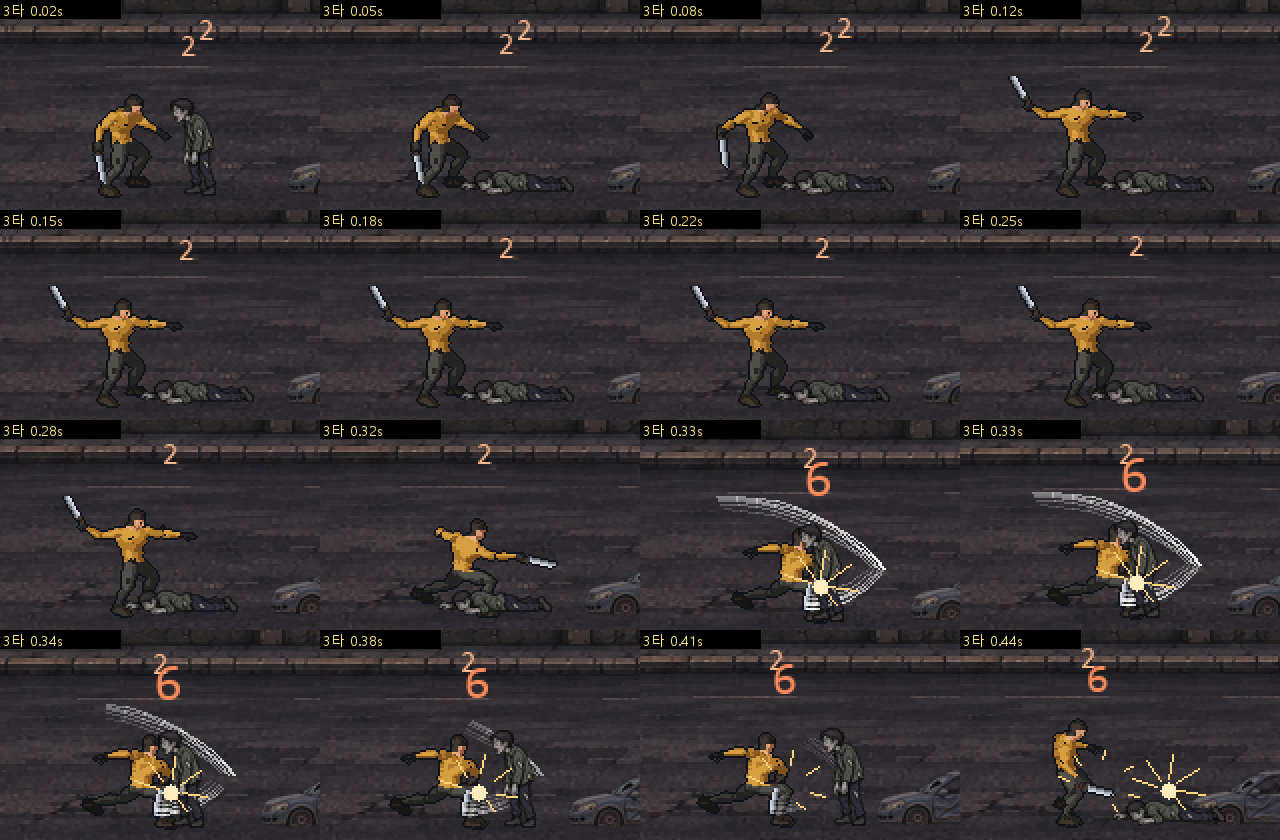
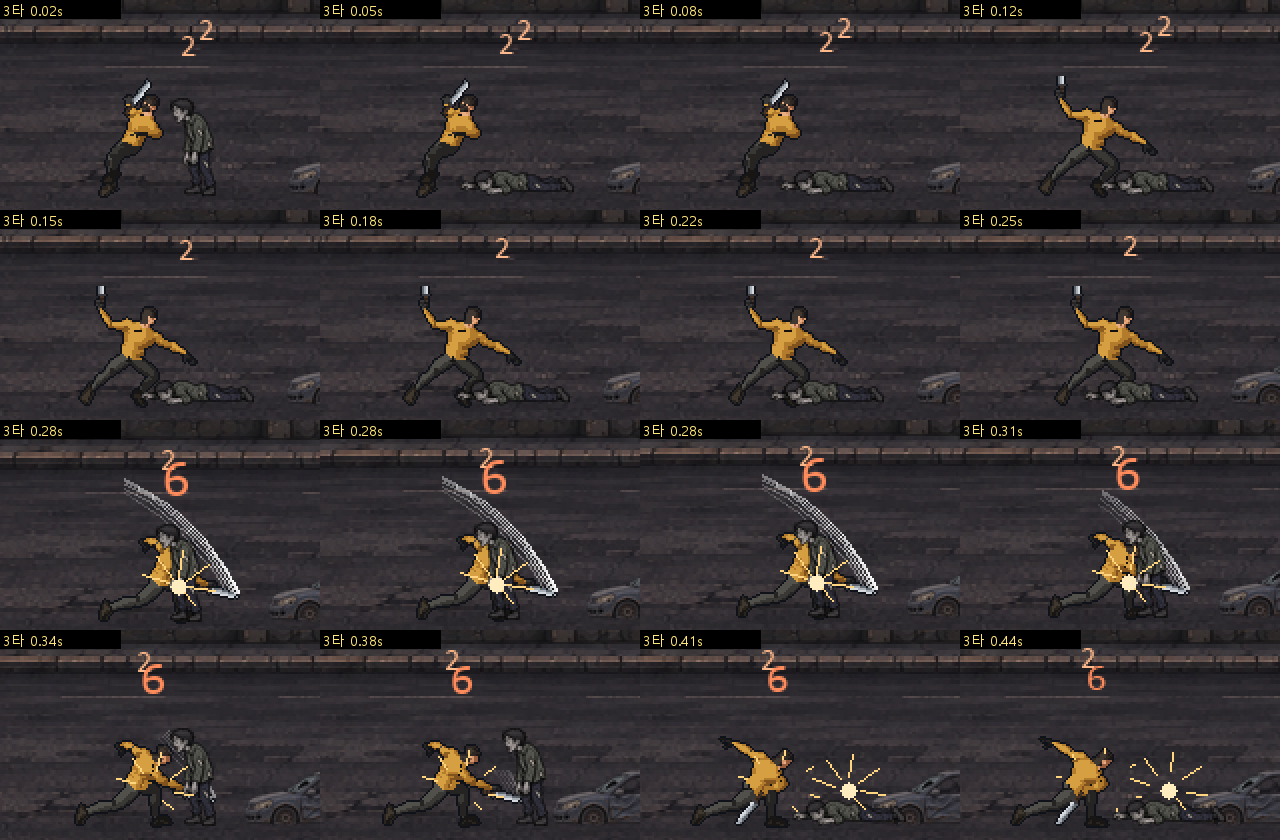
3타를 동작 팩 3연타(Sword_Regular_Combo)의 마무리로: 2타에서 이어지는 머리 위 내려치기

diff --git a/tools/blender/render_character.py b/tools/blender/render_character.py
@@ -27,17 +27,18 @@ PASSES = [
     (LIB1,
      ["idle=Idle_Loop", "sneak_idle=Idle_Loop+Crouch_Idle_Loop*0.3", "walk=Walk_Loop",
       "sneak=Walk_Loop+Crouch_Idle_Loop*0.3", "run=Jog_Fwd_Loop", "hurt=Hit_Chest", "down=Death01",
-      "pickup=Fixing_Kneeling@0-20", "swing3=Sword_Attack@0-7,Sword_Attack@10-13,Sword_Attack@26-36"],
-     ["idle=4", "sneak_idle=4", "walk=12", "sneak=12", "run=12", "hurt=3", "down=5", "pickup=4", "swing3=3,2,3"],
+      "pickup=Fixing_Kneeling@0-20"],
+     ["idle=4", "sneak_idle=4", "walk=12", "sneak=12", "run=12", "hurt=3", "down=5", "pickup=4"],
      ["--shift-for", "down=16"]),
     (LIB2,
      # Machete combo (user order 2026-11-12, "1st sweep, 2nd rising cut, 3rd chop down"):
      # 1st a quick sweep (B, wind-up cut off), 2nd the rising cut (A from its crouch on,
-     # fewer frames), 3rd the big chop (Sword_Attack: blade raised overhead, lunge, chop down
-     # to the ground, then its own return to standing).
-     # (swing3 is in the first library, so it is rendered with the first pass above.)
-     ["swing=Sword_Regular_B@2-13,Sword_Regular_B_Rec", "swing2=Sword_Regular_A@4-,Sword_Regular_A_Rec@7-23"],
-     ["swing=4,3", "swing2=4,3"],
+     # fewer frames), 3rd the finisher of the pack's own combo (Sword_Regular_Combo: after
+     # A and B it raises the blade overhead and steps in with a diagonal chop), so all three
+     # come from one animated combo and flow together (2026-11-13: Sword_Attack did not).
+     ["swing=Sword_Regular_B@2-13,Sword_Regular_B_Rec", "swing2=Sword_Regular_A@4-,Sword_Regular_A_Rec@7-23",
+      "swing3=Sword_Regular_Combo@31.5-34.5,Sword_Regular_Combo@37.6-41,Sword_Regular_Combo@51-72"],
+     ["swing=4,3", "swing2=4,3", "swing3=2,2,3"],
      []),
 ]
 

diff --git a/src/weapon.py b/src/weapon.py
@@ -31,7 +31,7 @@ MACHETE = Weapon(
         # 1st and 2nd: quick, light blows; 3rd: the big chop with a real wind-up.
         Swing("swing", 0.46, 0.14, 2, 42, 20, pi / 3, 110, 0.72, False),    # quick sweep
         Swing("swing2", 0.50, 0.16, 2, 46, 22, pi / 3, 110, 0.73, False),   # rising cut
-        Swing("swing3", 0.70, 0.32, 6, 50, 24, pi / 3, 340, 0.74, True, 22),  # big chop down
+        Swing("swing3", 0.68, 0.28, 6, 50, 24, pi / 3, 340, 0.74, True, 22),  # finisher: overhead chop
     ),
     combo_window=0.25,
     sneak_multiplier=3,

diff --git a/assets/characters/CHARACTER_WORKFLOW.md b/assets/characters/CHARACTER_WORKFLOW.md
@@ -131,7 +131,7 @@
 | sneak | `Walk_Loop` 위에 `Crouch_Idle_Loop`를 30% 얹음(`Walk_Loop+Crouch_Idle_Loop*0.3`) | 12 | 2026-11-11 30%로 조정(처음 40%), 6→12칸. 섞을 때는 COMBINE(회전을 곱해 더함)을 써야 함. 단순 평균(REPLACE)은 다리가 뒤로 뒤집힘 |
 | swing (1타) | `Sword_Regular_B@2-13` 4칸 + 복귀 `Sword_Regular_B_Rec` 3칸 (두 번째 팩 UAL2) | 7 | 빠른 가로 베기(준비 동작 잘라냄). 맞는 칸 인덱스 1, `hold` 0.35. 2026-11-12 "첫 번째 동작을 가로 베기로" → 다시 1타 |
 | swing2 (2타) | `Sword_Regular_A@4-` 4칸 + 복귀 `Sword_Regular_A_Rec@7-23` 3칸 | 7 | 올려 베기: 숙인 자세에서 칼이 앞으로 올라감. 맞는 칸 인덱스 1, `hold` 0.35. 2026-11-12 "2타 올려 베기"로 3타에서 옮기며 6칸 → 4칸 |
-| swing3 (3타) | `Sword_Attack@0-7` 3칸 + `@10-13` 2칸 + `@26-36` 3칸 (첫 번째 팩 UAL1) | 8 | 내려치기: 서기 → 뒤로 빼기 → 머리 위(버팀) → 파고들기 → 땅까지 내려침(맞는 칸 인덱스 4, `hold` 0.3, `windup` [0.7, 0.7, 2.2, 0.4], `trail_from` 2). 첫 번째 팩 동작이라 첫 번째 렌더 묶음에 들어 있음. 후보로 `TreeChopping_Loop`, `Sword_Regular_Combo`, `Melee_Hook`도 비교함 |
+| swing3 (3타) | `Sword_Regular_Combo@31.5-34.5` 2칸 + `@37.6-41` 2칸 + `@51-72` 3칸 (두 번째 팩 UAL2) | 7 | 마무리 내려치기: 동작 팩의 3연타(`Sword_Regular_Combo` = 올려 베기 A → 가로 베기 B → 마무리)의 마지막 타. 2타가 끝난 칼을 든 자세에서 이어서 머리 위로 들었다(버팀) 파고들며 앞으로 내려침. 맞는 칸 인덱스 2, `hold` 0.3, `windup` [1, 1.8], `trail_from` 1. 2026-11-13 "3번째 동작 흐름이 1·2번과 안 어울린다"로 `Sword_Attack`(첫 번째 팩, 다른 화풍의 동작)에서 바꿈 |
 | run | `Jog_Fwd_Loop` | 12 | 2026-11-12 뛰기. 원래 5.87m/s(한 바퀴 0.92초에 5.39m), 게임 4.8m/s에서 걸은 거리로 재생 |
 | sneak_idle | `Idle_Loop` 위에 `Crouch_Idle_Loop`를 40% 얹음 | 4 | Shift만 누르고 서 있을 때. 시트가 없는 캐릭터는 `sneak` 첫 칸으로 대신함(`character_look.FALLBACK`) |
 | hurt | `Hit_Chest` | 3 | |
@@ -295,3 +295,4 @@
 | 2026-11-12 | 사용자 지시 "뛰기 기능", "1타 가로 베기, 2타 올려 베기, 3타 내려치기" | `run=Jog_Fwd_Loop` 12칸 추가(`look.json` `stride_m` 5.39). 내려치기 후보 4개(`Sword_Attack`, `TreeChopping_Loop`, `Sword_Regular_Combo`, `Melee_Hook`)를 그려 비교하고 `Sword_Attack`을 3타로. 점검: ① 뛰기 다리가 걸은 거리와 맞음 ② 2타 검로가 아래에서 앞으로 올라감(전에는 머리 위로 그려짐 → "베기는 몸 앞을 지난다" 규칙) ③ 3타 검로가 머리 위에서 앞으로 내려옴 ④ 좌우 반전 맞음. 게임 화면 `previews/blade_trail_ingame.png` |
 | 2026-11-12 | 사용자 지시 "3번 동작이 쥬시하지 않다" | 3타를 `@0-7`(서기·빼기·머리 위) + `@10-13`(파고들기·내려침) + 복귀로 다시 자름. 맞는 칸을 칼이 땅까지 내려간 칸으로. 점검: ① 머리 위 칸이 가장 오래 보임 ② 파고드는 칸은 한순간 ③ 검로가 머리 위 → 앞 → 땅으로 이어짐 ④ 타격 별이 1·2타보다 큼. 게임 화면 `previews/chop_ingame.png` |
 | 2026-11-13 | 사용자 지시 "시안 만들기"(적 콘셉트: 피폭 한계를 넘어 죽은 사람이 변이) | 피폭체 시안 1 "막 변한 직장인"(`costumes/infected_office.json` → `assets/characters/infected/`). 주인공과 같은 기본 몸 + 동작 팩의 좀비 동작(`Zombie_Idle_Loop`·`Zombie_Walk_Fwd_Loop`·`Zombie_Scratch`) + 맞기·쓰러짐. 2D 옷 그리기 도구가 의상 파일의 `clothes` 블록(색, 맨손, 후드·주머니 끔, 상처·얼룩 위치)을 읽도록 일반화, `render_character.py`에 의상별 동작 묶음(`actions`: hero / infected). 처음엔 상처·얼룩이 대칭 마름모라 십자·배지처럼 읽힘 → 손으로 정한 비대칭 모양(찢어진 틈 + 어두운 테두리, 흘러내린 얼룩)으로 고침. 주인공 시트는 픽셀 단위로 그대로임을 확인. 미리보기 `previews/infected_office_sheets.png`, `infected_office_compare.png`. **아직 게임에 연결하지 않음**(피폭체 코드는 예전 시트를 씀) |
+| 2026-11-13 | 사용자 지시 "공격 3번째 동작 흐름이 1, 2번 동작이랑 어울리지 않습니다. 다른 걸 찾아보세요" | 후보 4개(`Sword_Regular_Combo`, `Sword_Dash_RM`, `Sword_Regular_C`, 지금 `Sword_Attack`)를 그려 비교. `Sword_Regular_Combo`가 동작 팩 자체의 3연타이고 앞 두 타가 우리 1·2타(A·B)와 같아, 그 마지막 타를 3타로. 처음 자른 구간은 칼이 앞에 닿는 칸(37~38프레임)을 건너뛰어 다시 자름. 점검: ① 2타 마지막 칸(칼을 든 자세)과 3타 첫 칸이 이어짐 ② 맞는 칸에서 칼이 앞 아래 ③ 검로가 머리 위 → 앞. 미리보기 `previews/combo_sheets.png`, 게임 화면 `previews/chop_ingame.png` |

diff --git a/PRD.md b/PRD.md
@@ -19,6 +19,7 @@
 
 - **v3.0 (2026-11-12) — 전투를 실시간으로 되돌림.** 턴제(BG3식)의 재미는 매 턴 고를 선택지(주문·기술·환경·동료 조합)가 많은 데서 나오는데, 2D 학기 과제의 콘텐츠량으로는 "다가가 때리고 주사위를 기다리는" 반복이 되어 재미가 반감된다고 판단했다(사용자 결정). 1차 발표대로 **실시간 근접 전투**(공격 예고를 보고 회피·반격)로 간다. 선택의 재미는 전투 밖으로 옮긴다: 싸울지 피할지(은신·기습·우회), 생존자 관계. 혼자 싸우는 주인공으로 시작하고 동료는 지원 역할로 다시 정한다. 주무기는 **마체테**(빠른 베기 연타, 2026-11-12 결정). 무기는 데이터로 만들어 나중에 소방 도끼·쇠파이프 등을 더한다. 턴제 코드는 지우지 않고 보관한다. 아래 12절(턴제 전투)은 실시간 설계로 다시 쓸 때까지 참고용이다.
 - **v3.1 연타 리듬 (2026-11-12, 사용자 지시)** — 연타는 뒤로 갈수록 동작이 커진다. 1타 가로 베기·2타 내지르기는 빠르고 가벼운 타(처음 0.32·0.34초 → v3.2에서 0.4초, 피해 2), 3타 올려 베기는 숙였다가 크게 베어 올리는 마무리(0.66초, 0.26초에 닿음, 피해 6, 밀어내기 2배 이상). 마무리 타는 무기 데이터의 `heavy` 표시로 히트스톱·흔들림·숫자가 한 단계 커진다(모든 무기 공통 규칙, `hit_feel.weight`). 기습은 첫 타 기준 2×3=6.
+- **v3.11 3타를 동작 팩의 연타 마무리로 (2026-11-13, 사용자 지시 "3번째 동작 흐름이 1, 2번과 어울리지 않는다")** — 3타를 `Sword_Regular_Combo`(동작 팩이 한 흐름으로 만든 3연타)의 마무리로 바꿨다. 2타가 끝난 칼을 든 자세에서 그대로 머리 위로 들어 파고들며 내려친다. 0.68초, 0.28초에 닿음, 피해 6, 22px 파고들기. v3.10의 손맛 규칙(버텼다가 확, 검로, 큰 타격 별)은 그대로.
 - **v3.10 3타 손맛 (2026-11-12, 사용자 지시 "3번 동작이 1, 2번 동작에 비해서 쥬시하지가 않아요")** — 원인: ① 준비 칸(서기·뒤로 빼기·머리 위)이 0.1초씩 똑같아 "멈췄다가 확" 하는 박자가 없음 ② 맞는 칸이 칼이 앞으로 수평인 칸이라 내려치는 순간이 아님 ③ 그림은 파고드는데 몸은 제자리 ④ 타격 별이 가벼운 타와 같은 크기. 고침(모두 공통 규칙): `look.json` `windup`(준비 칸마다 시간 비율 — 머리 위에서 0.18초 버티고 0.03초 만에 내려침), 맞는 칸을 땅까지 내려친 칸으로, `trail_from`(검로를 2칸 전부터 — 머리 위 → 앞 → 땅 초승달), 무기 데이터 `step`(맞기 직전 앞으로 22px 파고듦), `hit_feel`의 `burst`(무거운 타격일수록 별이 크고 굵고 충격 고리, 히트스톱 0.13초·흔들림 5px).
 - **v3.8 이동 속도와 뛰기 (2026-11-12, 사용자 지시)** — "걷기랑 은신 속도가 전투 박자감에 비해 느린 감, 뛰기 기능도 있으면 전투 흐름이 높아질 것." 걷기 1.7 → 2.0m/s, 은신 1.0 → 1.3m/s, **뛰기 4.8m/s**(Space를 누른 채 이동: 누르는 순간 대시, 계속 누르면 뛰기). 뛰기 그림은 조깅 동작(`Jog_Fwd_Loop`, 원래 5.87m/s)을 걸은 거리로 재생해 발이 미끄러지지 않는다.
 - **v3.9 연타 구성: 가로 베기 → 올려 베기 → 내려치기 (2026-11-12, 사용자 지시)** — "1타 가로 베기, 2타 올려 베기, 3타 내려치기 이렇게 안 되나." 1타 가로 베기(0.46초, 피해 2), 2타 올려 베기(0.5초, 피해 2), 3타 내려치기(0.72초, 칼을 머리 위로 들었다가 앞으로 파고들며 내려침, 피해 6, 마무리 타격감). 내지르기는 연타에서 빠졌다. 검로는 "베기는 몸 앞을 지나간다"는 규칙으로 도는 방향을 정한다(올려 베기가 뒤-아래에서 앞으로 약 185° 돌 때 머리 위로 그려지던 문제).

diff --git a/docs/DEVLOG.md b/docs/DEVLOG.md
@@ -112,3 +112,4 @@
 - **적 콘셉트:** 사용자 아이디어 "방사능 수치를 넘으면 사람은 죽고, 그게 괴물이 된다." 피폭체는 원래 사람이었다는 설정으로 정리하고, 변이 단계를 적 종류(일반·돌진·덩치·방사)와 피폭견에 연결했다. PRD 12장에 기록.
 - **피폭체 시안 1:** 콘셉트대로 "막 변한 직장인"을 주인공과 같은 방식(기본 몸 + 동작 팩의 좀비 동작 + 2D로 그린 옷)으로 만들었다. 2D 옷 그리기 도구를 의상 파일에서 색·세부를 읽게 일반화해 다른 사람·적도 같은 도구로 만들 수 있다. 상처가 처음엔 십자 모양으로 읽혀 비대칭 모양으로 고치고, 그림 점검표에 "작은 무늬는 비대칭으로"를 더했다.
 - **주인공 전투 방향 논의(미확정):** 피폭 게이지 + 변이 기술, 마체테는 평소 무기·변이 기술은 빛나는 맨손 안을 제안. 이어서 사이트별로 할 수 있는 작업 16곳을 나열했다(Quaternius 동물 팩으로 피폭견 제작 가능성, Rokoko 무료 격투 동작).
+- **3타 교체:** "3번째 동작이 1·2번과 흐름이 안 맞는다." 후보를 그려 비교해 보니 동작 팩에 `Sword_Regular_Combo`라는 3연타가 있고, 그 앞 두 타가 우리 1·2타와 같은 동작이었다. 그 마지막 타(칼을 든 자세에서 머리 위로 → 파고들며 내려치기)를 3타로 바꿨다. 다른 팩(첫 번째 팩)의 `Sword_Attack`이 화풍이 달라 어긋났던 것.

diff --git a/PLAN.md b/PLAN.md
@@ -147,6 +147,8 @@
 
 - **2026-11-12 · 공기·총소리 요소 제외** — "어떤 게 좋다고 생각하세요?"에 A 중심·옆 시점 유지·어둠+손전등을 추천 → "공기 요소는 제외하죠, 총소리가 적을 부르는 요소도 제외하죠." 공기 잔량은 계속 빼고(2026-11-10 결정 유지), 총소리로 적을 부르는 규칙도 넣지 않는다.
 
+- **2026-11-13 · 3타 교체** — "공격 3번째 동작 흐름이 1, 2번 동작이랑 어울리지 않습니다. 다른 걸 찾아보세요." 동작 팩의 3연타(`Sword_Regular_Combo`) 마무리로 바꿈. PRD v3.11.
+
 - **2026-11-13 · 사이트별 작업 나열** — 주인공 전투 방향 논의("주인공도 일반적이지 않게", "맨손을 쓸까요?" → 마체테 + 변이된 맨손 제안, 미확정) 중 "우선 다른 사이트를 통해서 할 수 있는 작업들을 나열해 보세요." 사이트 16곳을 얻는 것·작업·누가 하는지로 [작업 목록](docs/research/REFERENCE_WORK_LIST.md) 맨 위에 정리. 새로 찾은 것: Quaternius 동물 팩(늑대·개, CC0)으로 피폭견을 같은 Blender 방식으로, Rokoko 무료 격투 동작 13종.
 
 - **2026-11-13 · 피폭체 시안 1** — "시안 만들기." 막 변한 직장인(흰 셔츠·짙은 바지, 회녹색 피부, 빛나는 상처·얼룩)을 주인공과 같은 Blender 도구로 만들었다. 게임 연결은 다음 단계.
